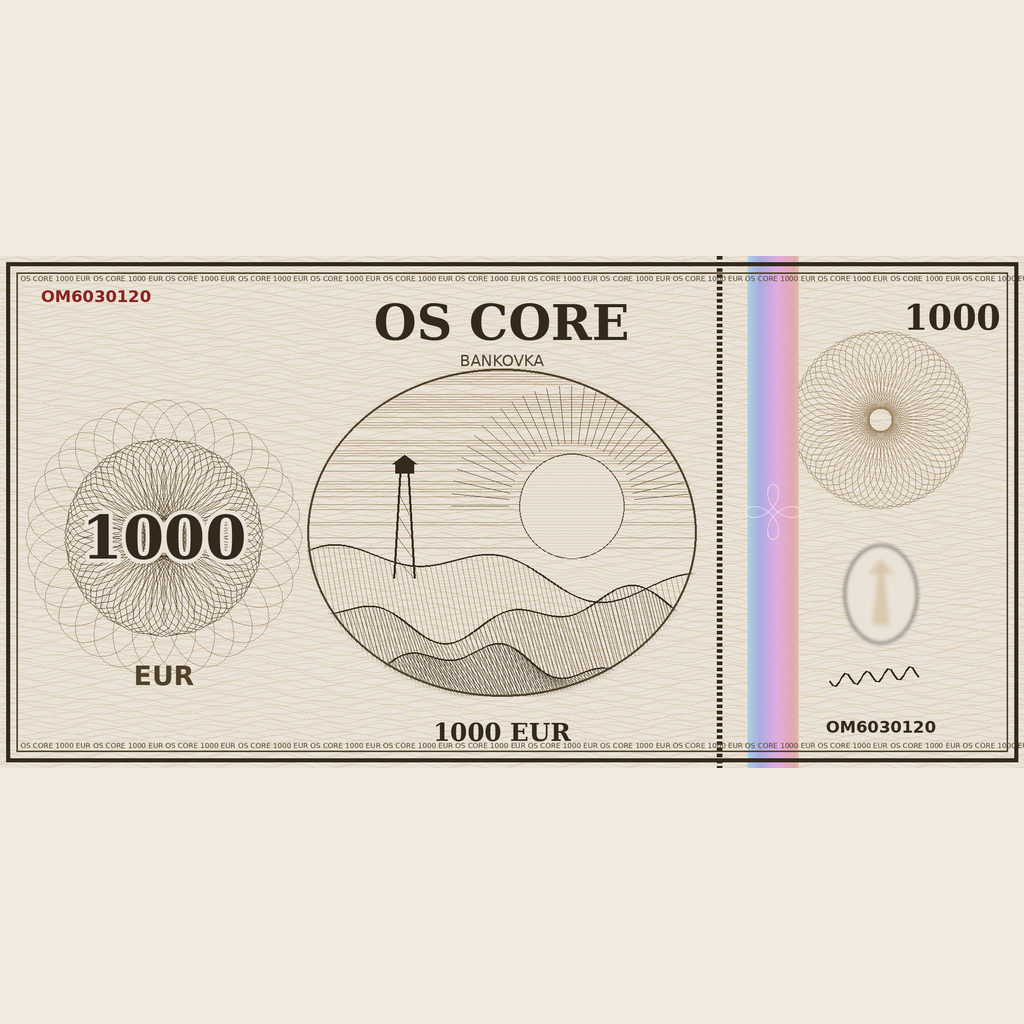
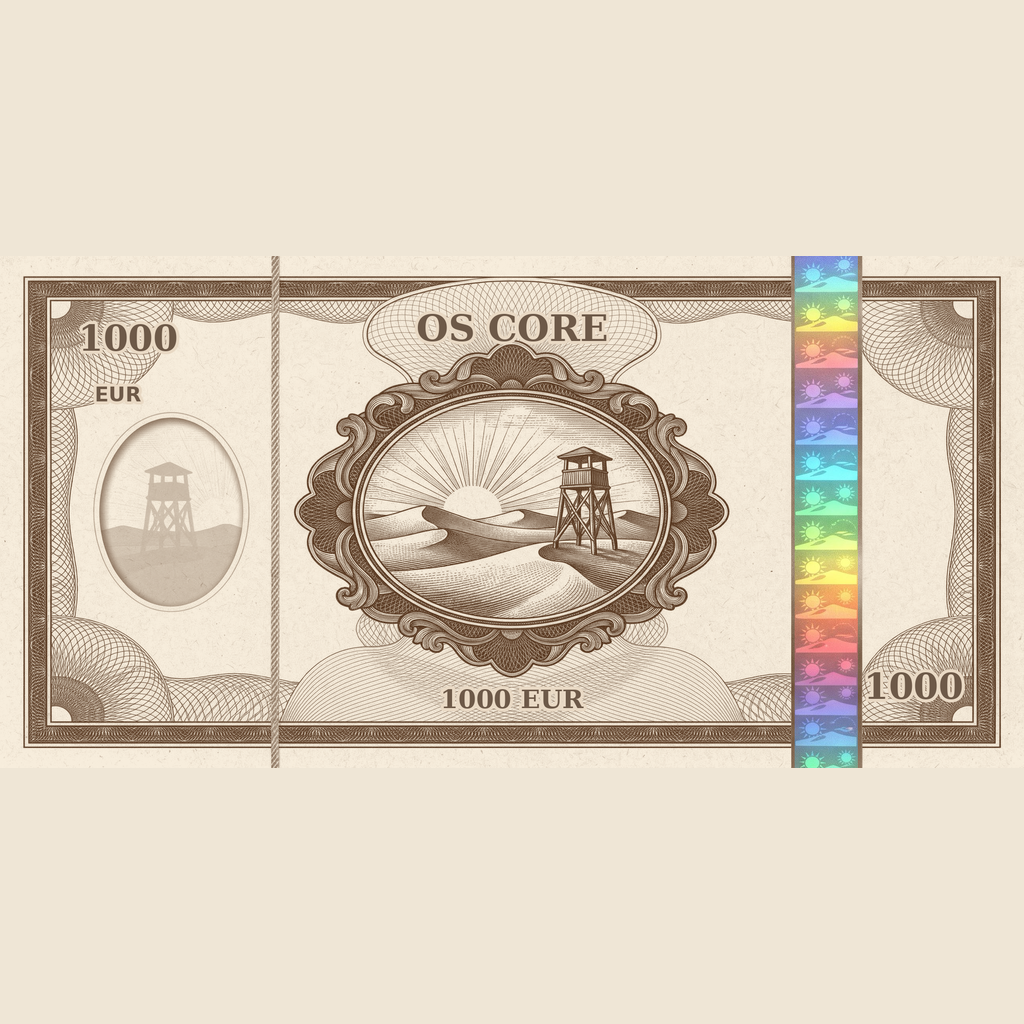
Banknotes 1000/2000/5000 EUR (recolored Gemini design), recolor tool, enable in default denominations
Claude-Session: https://claude.ai/code/session_01C5U47zY2JXvwuX59Jp4PRG

diff --git a/tools/recolor_banknote.py b/tools/recolor_banknote.py
@@ -1,0 +1,76 @@
+#!/usr/bin/env python3
+"""Přebarví podklad bankovky na jiný odstín (design zůstane, hologram se nemění).
+
+    python3 tools/recolor_banknote.py --src money_images/raw/10.jpg --value 2000 --ink 20,95,100
+
+Duotón: tmavé části dostanou novou barvu inkoustu, papír a hologram zůstanou.
+Výstup: money_images/raw/<value>.png -> pak finish_banknotes.py a import_money_images.py.
+"""
+import argparse
+import os
+
+import numpy as np
+from PIL import Image
+
+ROOT = os.path.join(os.path.dirname(__file__), "..")
+
+
+def find_hologram(img):
+    """Sloupce, kde je hodně barevných pixelů jiného odstínu než hlavní inkoust = hologram."""
+    hsv = np.array(img.convert("HSV")).astype(np.float32)
+    h, sat = hsv[..., 0], hsv[..., 1]
+    colored = sat > 60
+    ink_hue = float(np.median(h[colored])) if colored.any() else 0.0
+    diff = np.abs(h - ink_hue)
+    diff = np.minimum(diff, 255 - diff)
+    other = (colored & (diff > 30)).mean(axis=0)
+    cols = np.where(other > 0.3)[0]
+    w = hsv.shape[1]
+    if len(cols) == 0:
+        return 0.0, 0.0
+    return cols.min() / w + 0.003, cols.max() / w - 0.003   # mírně dovnitř, ať nezůstane rámeček původní barvy
+
+
+def recolor(src, ink_rgb, holo_from, holo_to, strength=1.0):
+    """Duotón: každý pixel se namíchá mezi barvou papíru a novou barvou inkoustu podle tmavosti."""
+    img = Image.open(src).convert("RGB")
+    if holo_from is None:
+        holo_from, holo_to = find_hologram(img)
+        print(f"  hologram: {holo_from:.3f}-{holo_to:.3f} sirky")
+    rgb = np.array(img).astype(np.float32)
+    lum = rgb @ np.array([0.299, 0.587, 0.114], dtype=np.float32)
+
+    paper = np.median(rgb[lum > np.percentile(lum, 70)], axis=0)        # barva papíru
+    paper_l = float(paper @ np.array([0.299, 0.587, 0.114]))
+    dark_l = float(np.percentile(lum, 1))                               # nejtmavší inkoust
+
+    t = np.clip((paper_l - lum) / max(1.0, paper_l - dark_l), 0, 1) ** 0.9 * strength
+    t = t[..., None]
+    ink = np.array(ink_rgb, dtype=np.float32)
+    out = paper * (1 - t) + ink * t
+
+    # zachovat jemnou texturu papíru (rozdíl jasu proti mediánu) a hologram beze změny
+    out += (lum - paper_l)[..., None] * 0.15 * (1 - t)
+    # hologram celý z originálu (okraj kolem něj se přebarví spolu s rámečkem)
+    w = rgb.shape[1]
+    a, b = int(w * holo_from), int(w * holo_to)
+    out[:, a:b] = rgb[:, a:b]
+    return Image.fromarray(np.clip(out, 0, 255).astype(np.uint8), "RGB")
+
+
+if __name__ == "__main__":
+    ap = argparse.ArgumentParser(description=__doc__, formatter_class=argparse.RawDescriptionHelpFormatter)
+    ap.add_argument("--src", required=True)
+    ap.add_argument("--value", type=int, required=True)
+    ap.add_argument("--ink", required=True, help="barva inkoustu R,G,B (nejtmavší tón), např. 20,95,100")
+    ap.add_argument("--holo", default="auto", help="poloha hologramu: auto, nebo zlomek šířky od,do (např. 0.77,0.84)")
+    a = ap.parse_args()
+
+    if a.holo == "auto":
+        hf, ht = None, None
+    else:
+        hf, ht = (float(x) for x in a.holo.split(","))
+    out = recolor(a.src, tuple(int(x) for x in a.ink.split(",")), hf, ht)
+    path = os.path.join(ROOT, "money_images", "raw", f"{a.value}.png")
+    out.save(path)
+    print("OK:", os.path.relpath(path, ROOT))

diff --git a/tools/finish_banknotes.py b/tools/finish_banknotes.py
@@ -44,10 +44,10 @@ def finish(path, value, title, currency):
     stroke = dict(stroke_width=6, stroke_fill=paper)
 
     d.text((W * 0.5, H * 0.14), title, font=ImageFont.truetype(SERIF_BOLD, 72), fill=ink, anchor="mm", **stroke)
-    size = 130 if value < 100 else (108 if value < 1000 else 86)
+    size = 130 if value < 100 else (108 if value < 1000 else 70)
     big = ImageFont.truetype(SERIF_BOLD, size)
-    d.text((W * 0.115, H * 0.16), str(value), font=big, fill=ink, anchor="mm", **stroke)
-    d.text((W * 0.905, H * 0.84), str(value), font=big, fill=ink, anchor="mm", **stroke)
+    d.text((W * (0.115 if value < 1000 else 0.125), H * 0.16), str(value), font=big, fill=ink, anchor="mm", **stroke)
+    d.text((W * (0.905 if value < 1000 else 0.892), H * 0.84), str(value), font=big, fill=ink, anchor="mm", **stroke)
     d.text((W * 0.5, H * 0.865), f"{value} {currency}", font=ImageFont.truetype(SERIF_BOLD, 50), fill=ink, anchor="mm", **stroke)
     d.text((W * 0.115, H * 0.27), currency, font=ImageFont.truetype(SANS_BOLD, 40), fill=ink, anchor="mm", **stroke)
     return img

diff --git a/OS_Core/Scripts/3_Game/OS_Core/OS_BankConfig.c b/OS_Core/Scripts/3_Game/OS_Core/OS_BankConfig.c
@@ -37,7 +37,10 @@ class OS_BankConfig
 
 	void FillDefaults()
 	{
-		// euro
+		// euro (+ vyšší bankovky 1000, 2000, 5000)
+		Denominations.Insert(5000);
+		Denominations.Insert(2000);
+		Denominations.Insert(1000);
 		Denominations.Insert(500);
 		Denominations.Insert(200);
 		Denominations.Insert(100);

diff --git a/README.md b/README.md
@@ -143,7 +143,7 @@ přidej jejich classname a díly).
 - **Měna** se nastavuje v `Bank.json`: `CurrencyName` (např. `"EUR"`, `"RUB"`, `"USD"`, `"Kc"`) a `Denominations`
   = které bankovky se vydávají. Mód obsahuje bankovky v hodnotách **1, 2, 5, 10, 20, 50, 100, 200, 500, 1000, 2000
   a 5000** (`OS_Money_<hodnota>`), server použije jen ty z `Denominations`. Příklady:
-  - euro (výchozí): `"CurrencyName": "EUR", "Denominations": [500, 200, 100, 50, 20, 10, 5]`
+  - euro (výchozí): `"CurrencyName": "EUR", "Denominations": [5000, 2000, 1000, 500, 200, 100, 50, 20, 10, 5]`
   - rubl: `"CurrencyName": "RUB", "Denominations": [5000, 1000, 500, 100, 50]`
   - dolar: `"CurrencyName": "USD", "Denominations": [100, 50, 20, 10, 5, 1]`
   - koruna: `"CurrencyName": "Kc", "Denominations": [2000, 1000, 500, 200, 100]`
@@ -165,6 +165,9 @@ přidej jejich classname a díly).
   python3 tools/import_money_images.py --mode fill                    # textury módu
   ```
   Model jde změnit `--model` (`gemini-3.1-flash-image` výchozí, `gemini-3-pro-image` kvalitnější a dražší).
+- **Přebarvení bankovky** na novou hodnotu (stejný design, hologram zůstane):
+  `python3 tools/recolor_banknote.py --src money_images/raw/10.jpg --value 2000 --ink 18,92,98`
+  (`--ink` = nejtmavší tón inkoustu R,G,B). Pak `finish_banknotes.py` a `import_money_images.py`.
 - **Jednoduchý potisk** (původní, čtvercový):
   ```bash
   python3 tools/generate_money_textures.py --currency EUR --title "OS CORE" --preview 5,10,20,50,100,200,500
